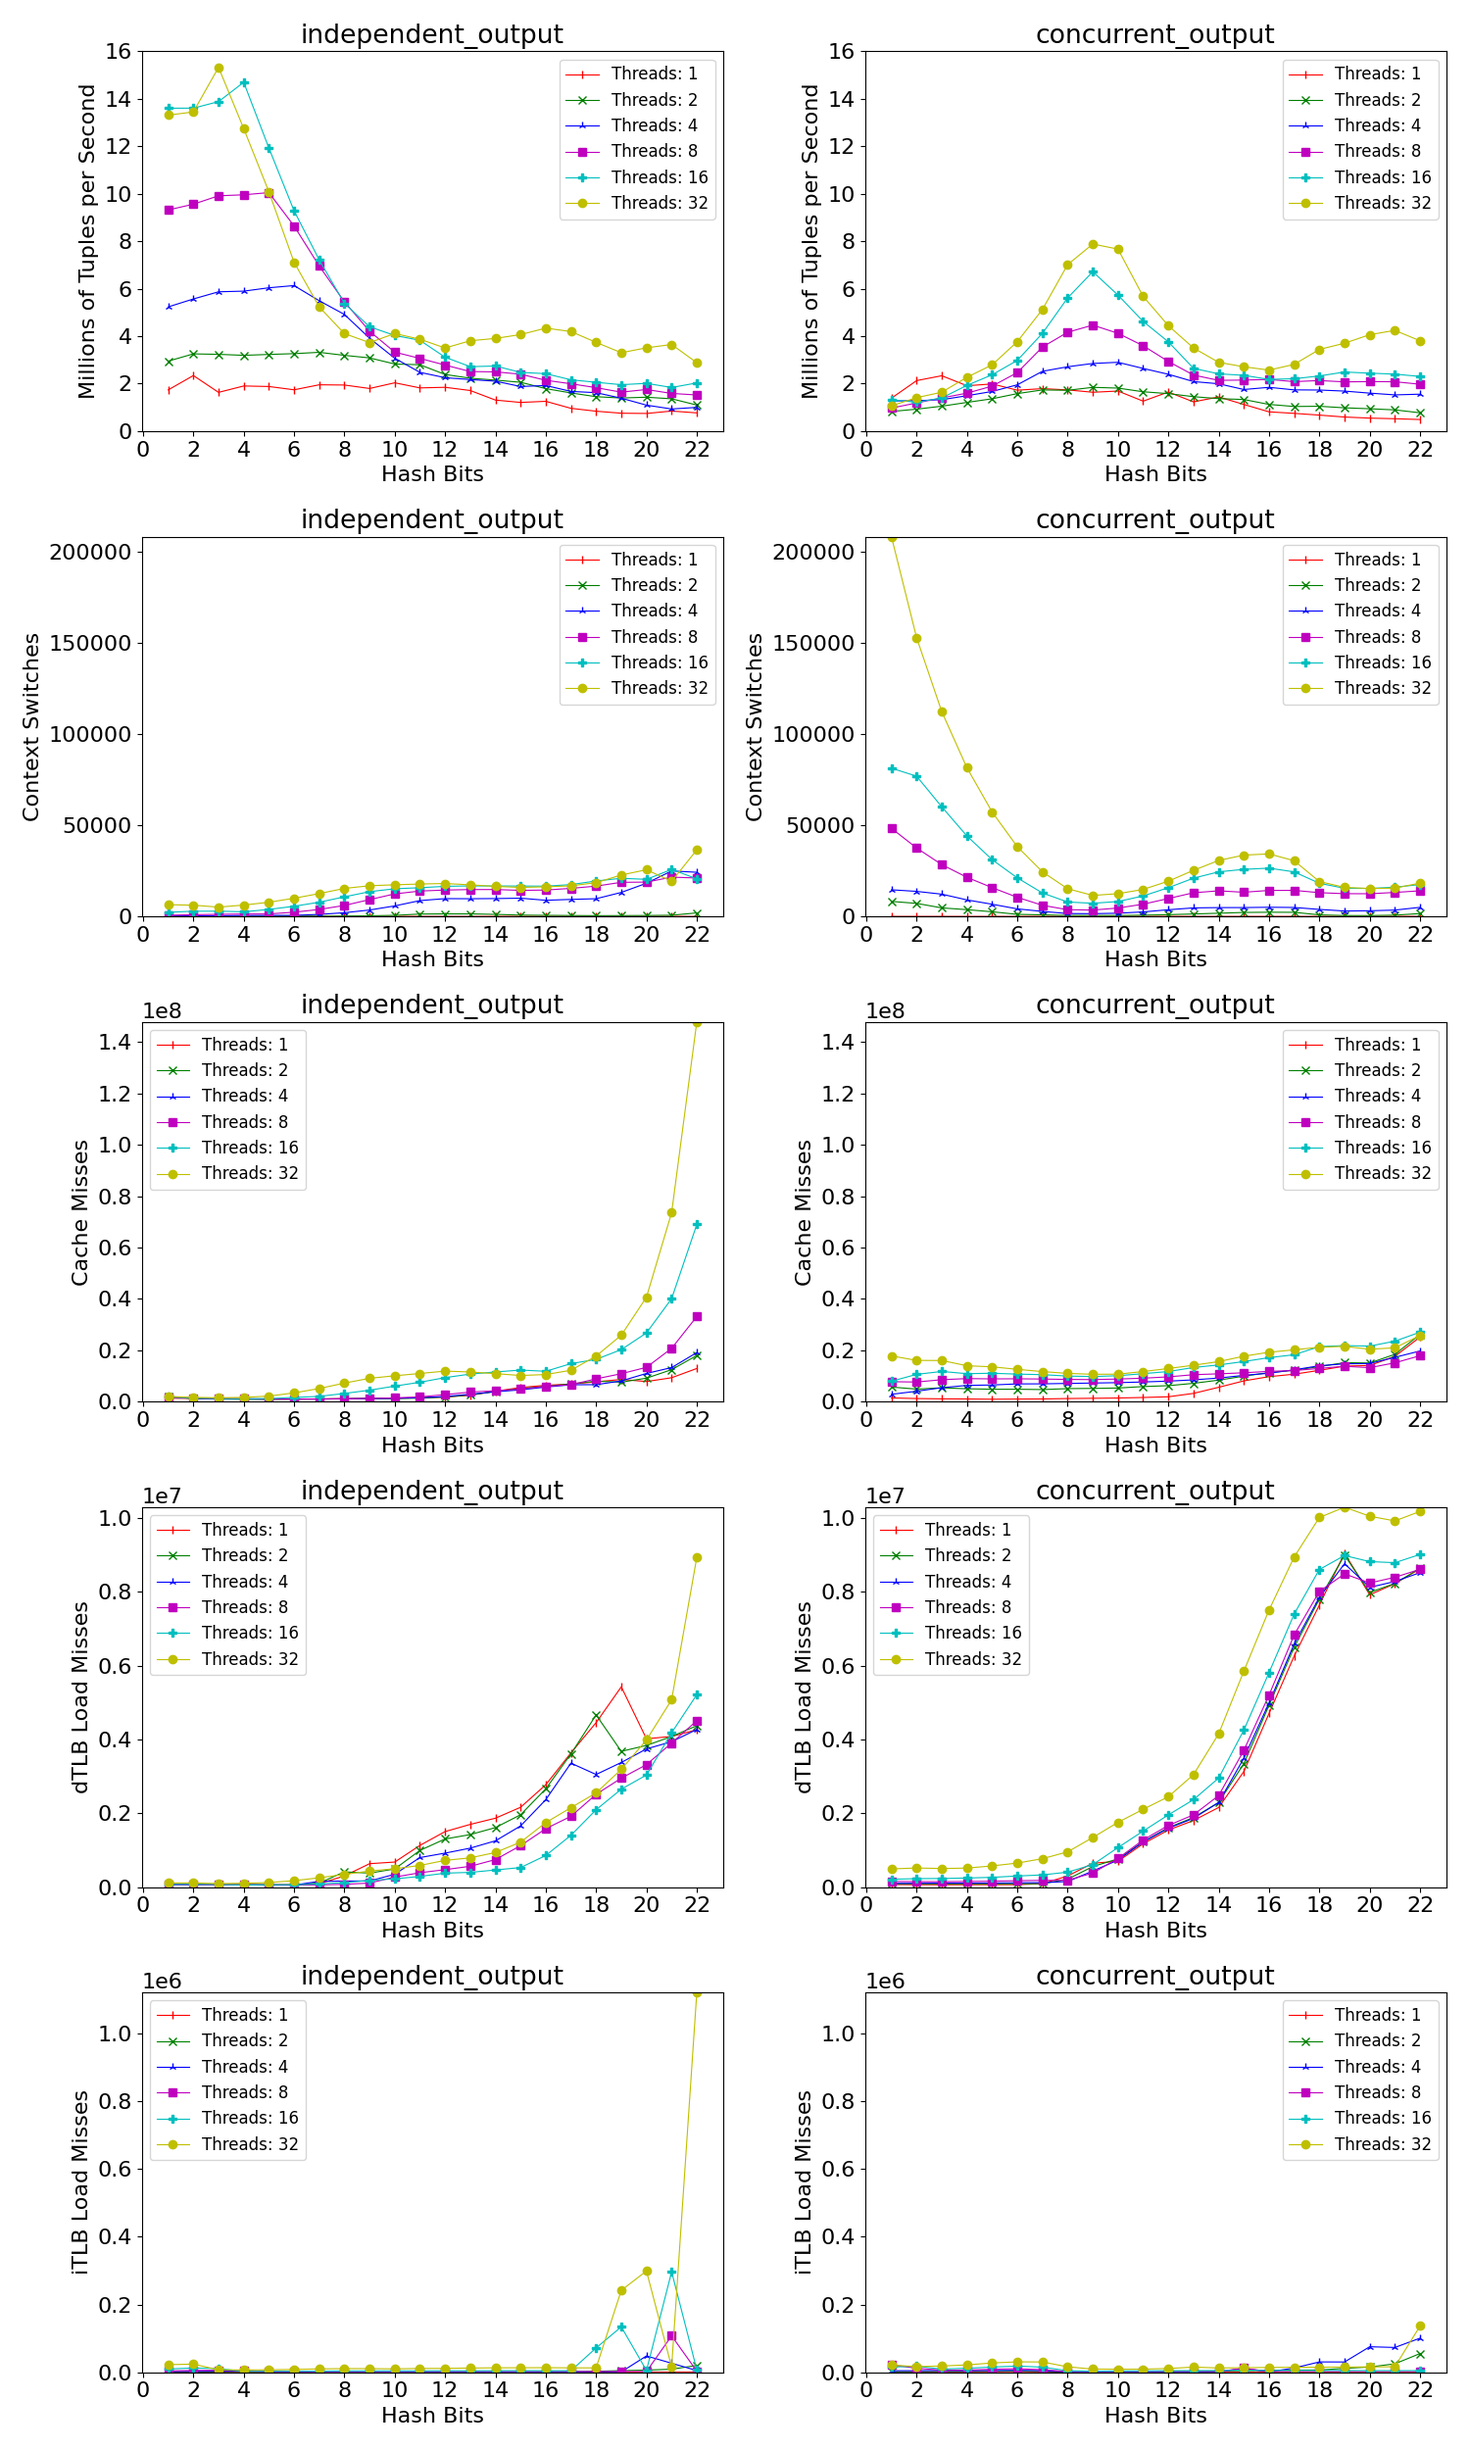
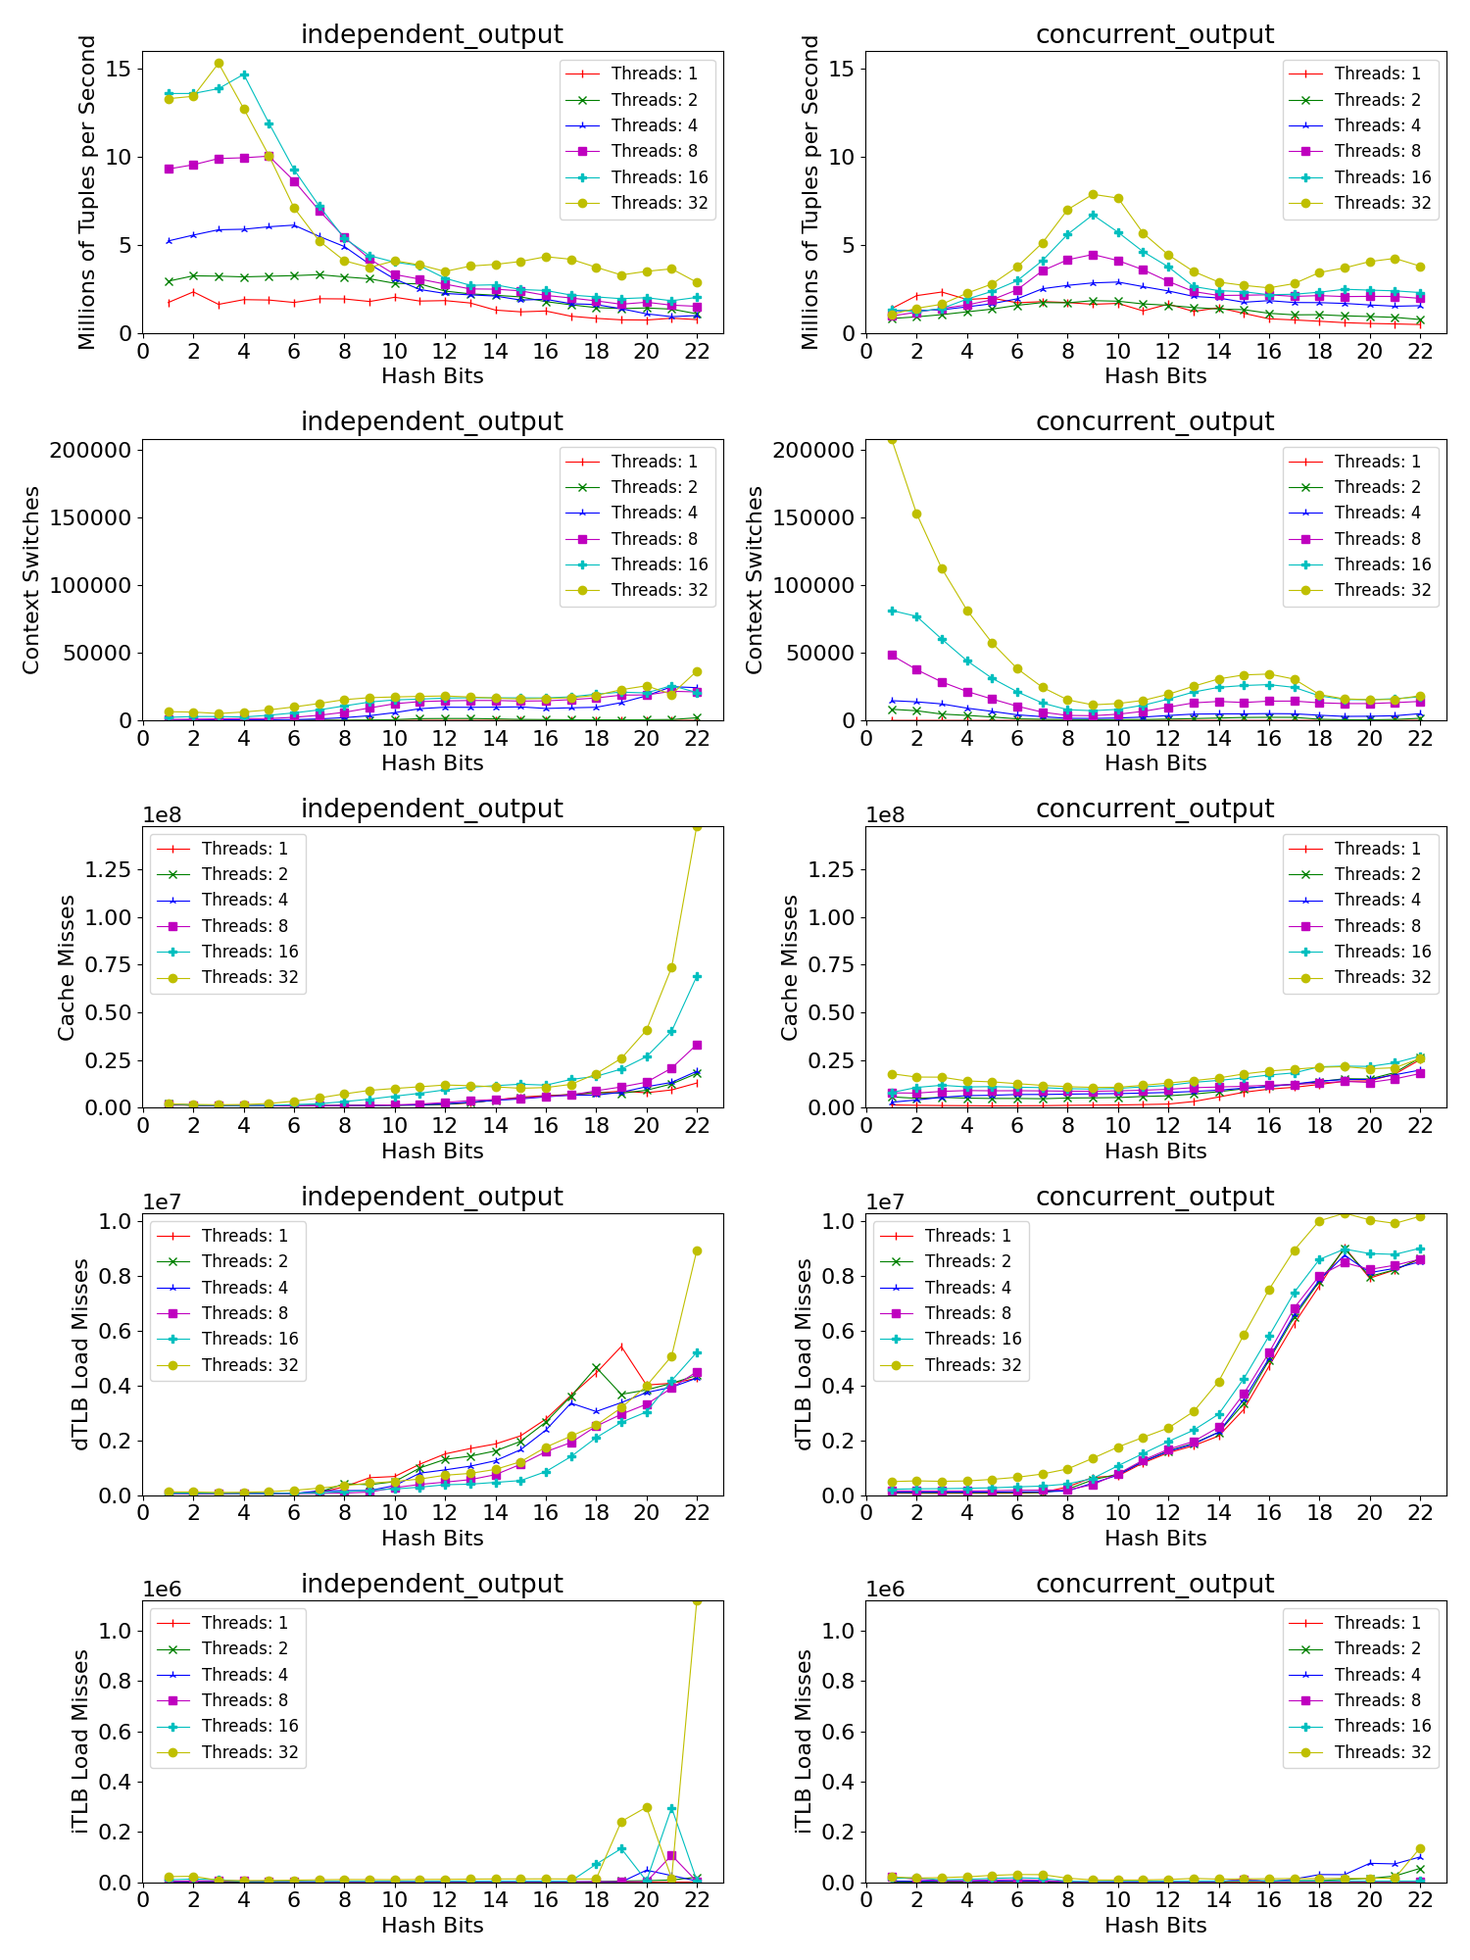
new superplot

diff --git a/Project1/python/generate_plots.py b/Project1/python/generate_plots.py
@@ -131,7 +131,7 @@ def main(args):
 
 
     # Superplot config
-    super_fig, super_axs = plt.subplots(len(values), len(experiment_dirs), figsize=(15,25))
+    super_fig, super_axs = plt.subplots(len(values), len(experiment_dirs), figsize=(15,20))
     super_fig.subplots_adjust(hspace=0)
     
     
